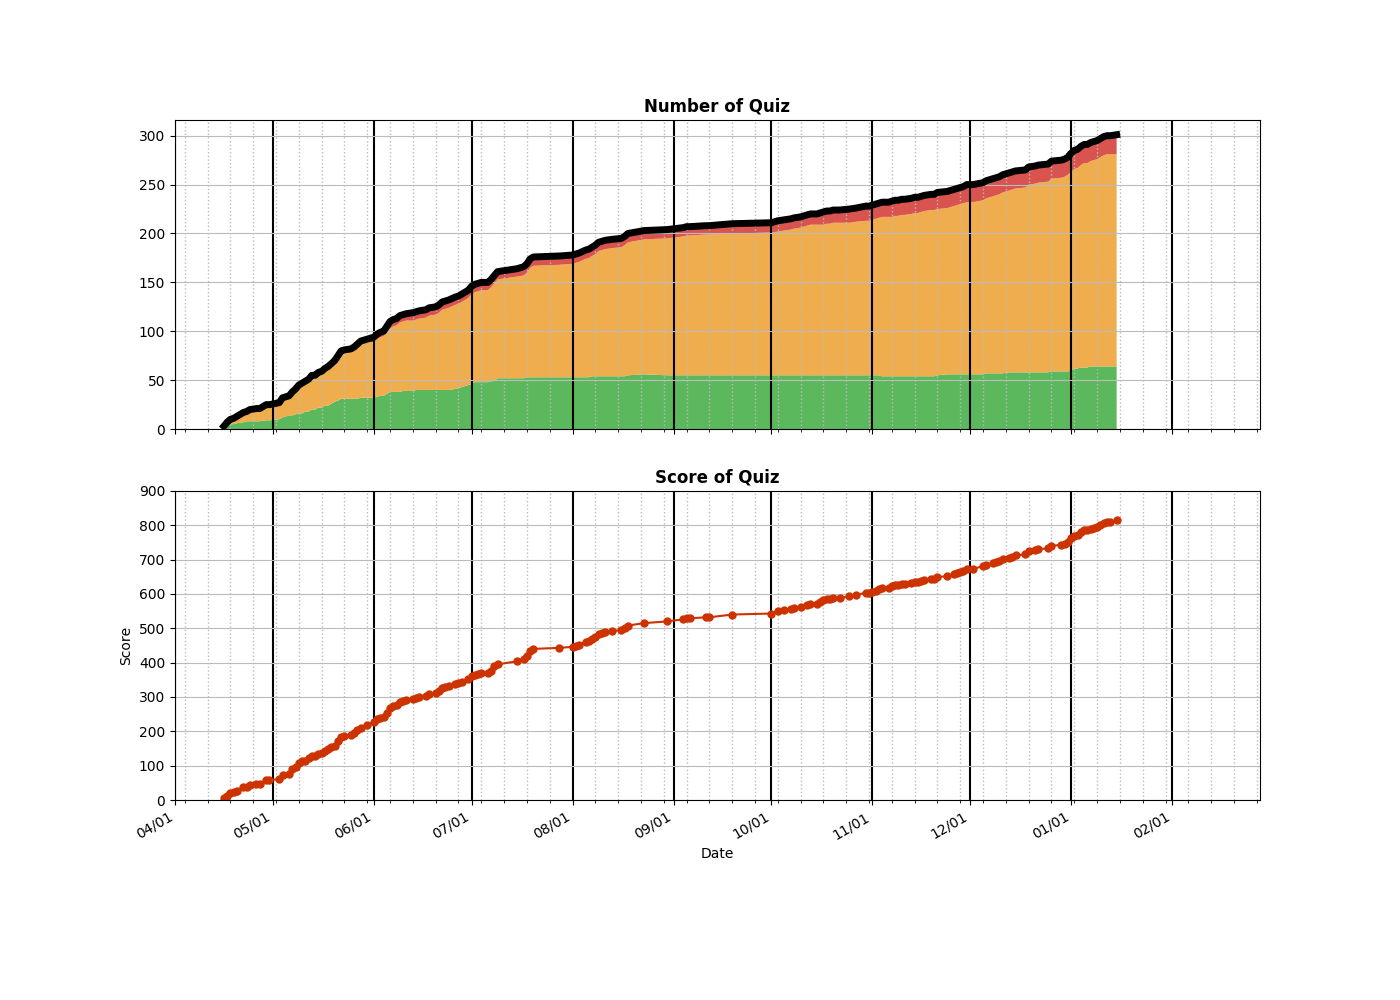
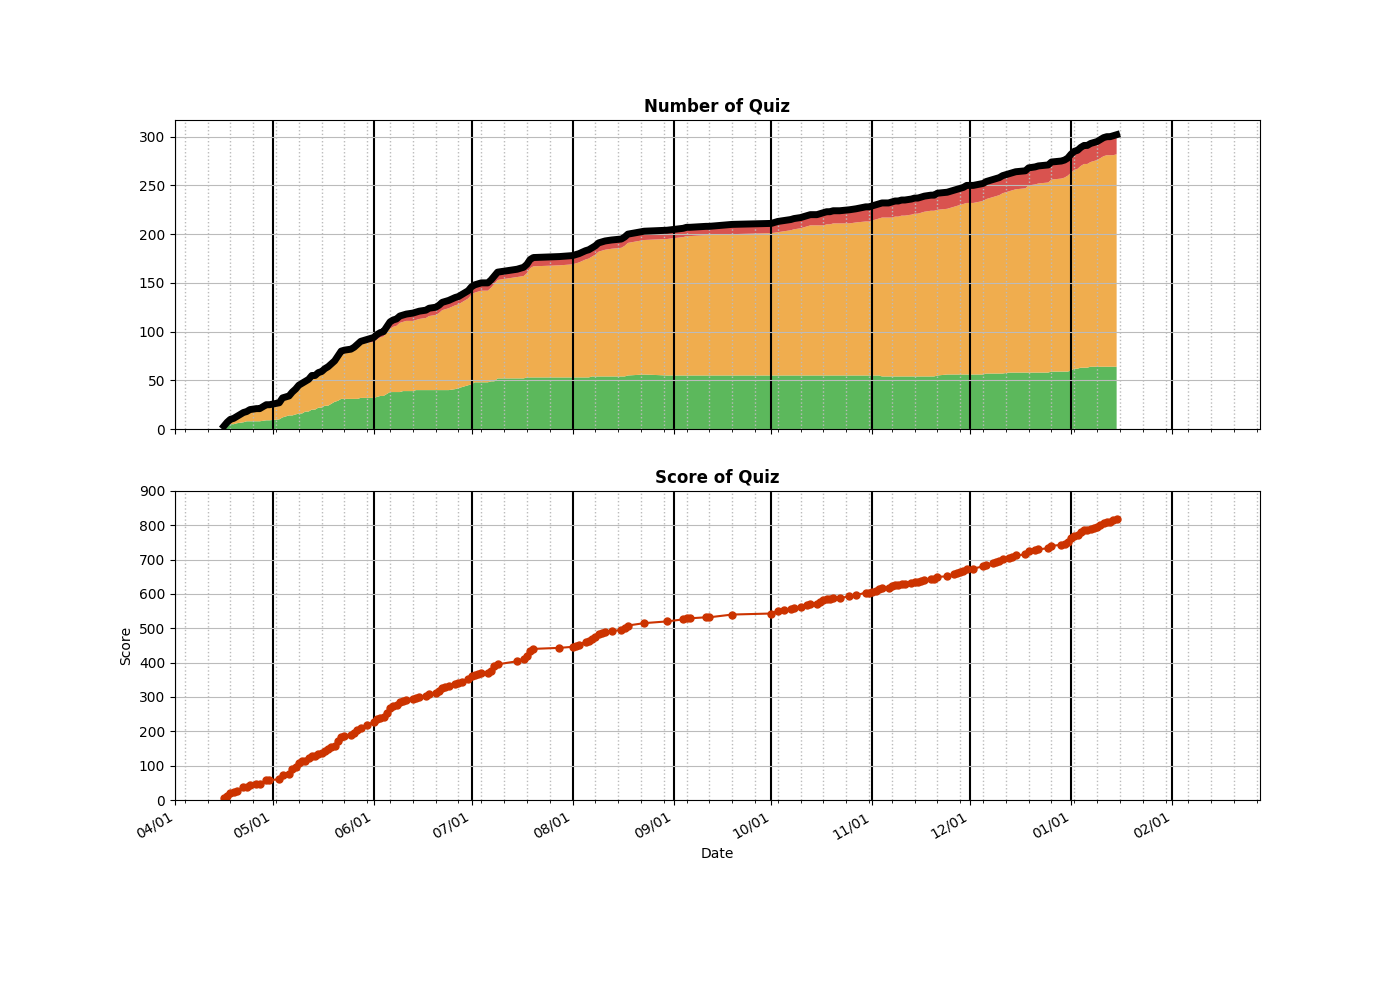
Added __0523__Continuous Subarray Sum.py

diff --git a/algo/Array/__0523__Continuous Subarray Sum.py b/algo/Array/__0523__Continuous Subarray Sum.py
@@ -1,0 +1,92 @@
+class Solution:
+# [1,0,0]
+# 2
+# [1,0]
+# 2
+# [0,1]
+# 2
+# [1,2,12]
+# 6
+# [1,3,0,6]
+# 6
+    
+    # 2022/01/15 
+    # Store the remainder; deal with the edge cases [O(n): 30%]
+    def checkSubarraySum(self, nums: List[int], k: int) -> bool:
+        print("Code3")
+        if not nums:
+            return False
+        
+        accumulativeSum = [0] * len(nums)
+        accumulativeSum[0] = nums[0]
+        for i in range(1, len(nums)):
+            accumulativeSum[i] = accumulativeSum[i-1] + nums[i] 
+        
+        #print(nums)
+        #print(accumulativeSum)
+        
+        remainderMap = {}
+        for i, v in enumerate(accumulativeSum):
+            remainder = v % k
+            if remainder in remainderMap:
+                if i - remainderMap[remainder] > 1:
+                    return True
+            else:
+                remainderMap[remainder] = i
+            
+            #Edge cases 
+            if i != 0 and remainder == 0:
+                return True
+            
+            #print(i, remainder, remainderMap)
+        return False
+    
+    # ========================================
+    # 2022/01/15 
+    # Store the remainder [Too many edge cases]
+    def checkSubarraySum2(self, nums: List[int], k: int) -> bool:
+        print("Code2")
+        if not nums:
+            return False
+        
+        accumulativeSum = [0] * len(nums)
+        accumulativeSum[0] = nums[0]
+        for i in range(1, len(nums)):
+            accumulativeSum[i] = accumulativeSum[i-1] + nums[i] 
+        print(nums)
+        print(accumulativeSum)
+        
+        remainderMap = {}
+        for i, v in enumerate(accumulativeSum):
+            remainder = v % k
+            quotient = v // k
+            if remainder in remainderMap and remainderMap[remainder][0] != quotient and remainderMap[remainder][1] != i - 1:
+                return True
+            if i != 0 and nums[i] == 0 and nums[i-1] == 0:
+                return True
+            if i != 0 and remainder == 0:
+                return True
+            remainderMap[remainder] = (quotient, i)
+            #print(v, remainderMap)
+        return False
+        
+    # ========================================
+    # 2022/01/15 
+    # Accumulative sum [O(n2): TLE]
+    def checkSubarraySum1(self, nums: List[int], k: int) -> bool:
+        print("Code1")
+        accumulativeSum = [0] * len(nums)
+        accumulativeSum[0] = nums[0]
+        for i in range(1, len(nums)):
+            accumulativeSum[i] = accumulativeSum[i-1] + nums[i] 
+            
+        for i in range(len(nums)):
+            for j in range(i+1, len(nums)):
+                if i == 0:
+                    curSum = accumulativeSum[j]
+                else:
+                    curSum = accumulativeSum[j] - accumulativeSum[i-1]
+                if curSum % k == 0:
+                    return True
+        return False
+        

diff --git a/README.md b/README.md
@@ -13,6 +13,7 @@ algo
 │   ├── __0283__Move Zeroes.py
 │   ├── __0350__Intersection of Two Arrays II.py
 │   ├── __0384__Shuffle an Array.py
+│   ├── __0523__Continuous Subarray Sum.py
 │   ├── __0560__Subarray Sum Equals K.py
 │   ├── __0670__Maximum Swap.py
 │   ├── __0760__Find Anagram Mappings.py
@@ -340,7 +341,7 @@ algo
     ├── Countries.py
     └── SwitchingArray.py
 
-26 directories, 313 files
+26 directories, 314 files
 
 =====================================
 ============= Local Repo ============
@@ -539,6 +540,7 @@ __0510__Inorder Successor in BST II.py
 __0513__Find Bottom Left Tree Value.py
 __0515__Find Largest Value in Each Tree Row.py
 __0518__Coin Change 2.py
+__0523__Continuous Subarray Sum.py
 __0528__Random Pick with Weight.py
 __0532__K-diff Pairs in an Array.py
 __0535__Encode and Decode TinyURL.py
@@ -647,7 +649,7 @@ __1905__Count Sub Islands.py
 __1937__Maximum Number of Points with Cost.py
 __2093__Minimum Cost to Reach City With Discounts.py
 =====================================
-Num of Python Practice:  301
+Num of Python Practice:  302
 
 
 =====================================
@@ -847,6 +849,7 @@ Num of Python Practice:  301
  0513 Find Bottom Left Tree Value
  0515 Find Largest Value in Each Tree Row
  0518 Coin Change 2
+ 0523 Continuous Subarray Sum
  0528 Random Pick with Weight
  0532 K-diff Pairs in an Array
  0535 Encode and Decode TinyURL
@@ -956,10 +959,10 @@ Num of Python Practice:  301
  2093 Minimum Cost to Reach City With Discounts
 =====================================
 Solved / Total (Easy)  :   64 /  540
-Solved / Total (Medium):  217 / 1141
+Solved / Total (Medium):  218 / 1141
 Solved / Total (Hard)  :   20 /  456
-Solved / Total (All)   :  301 / 2137
-Total Score            :  815
+Solved / Total (All)   :  302 / 2137
+Total Score            :  818
 =====================================
 
 ```
